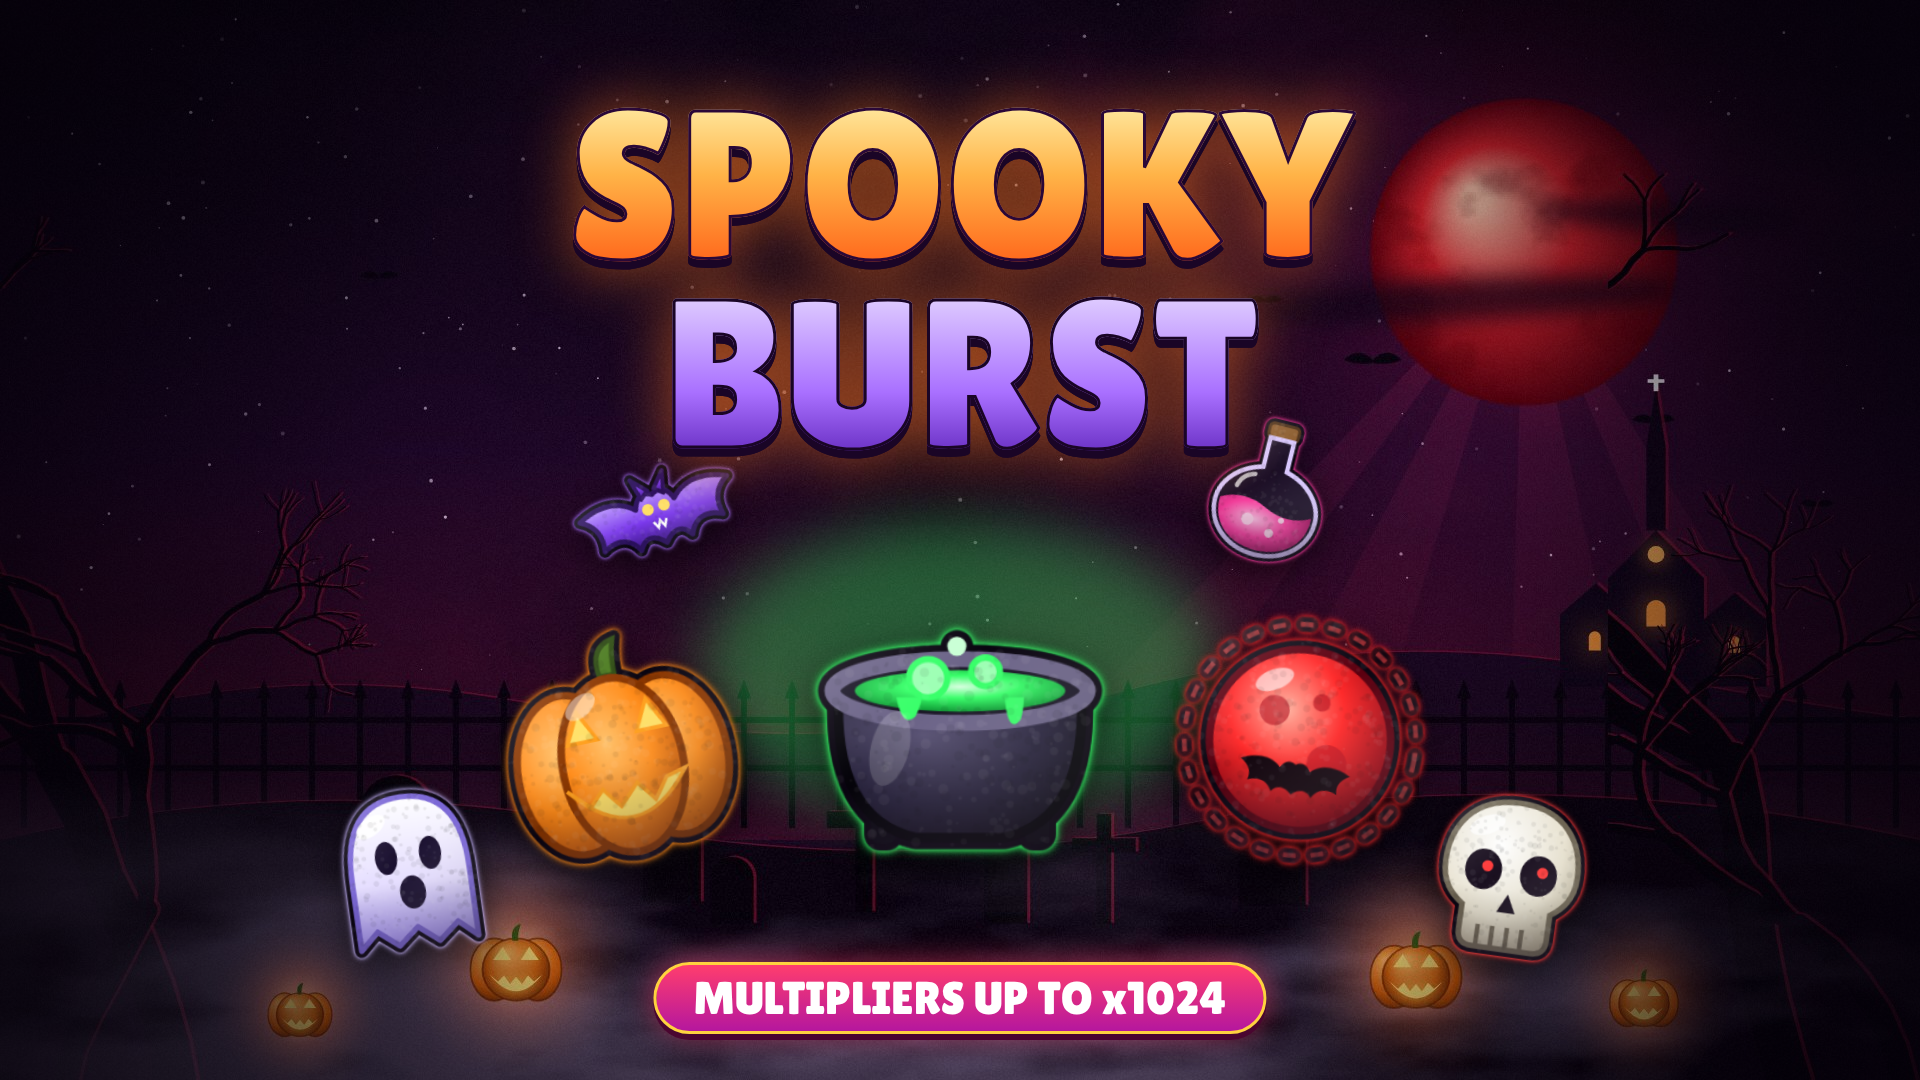
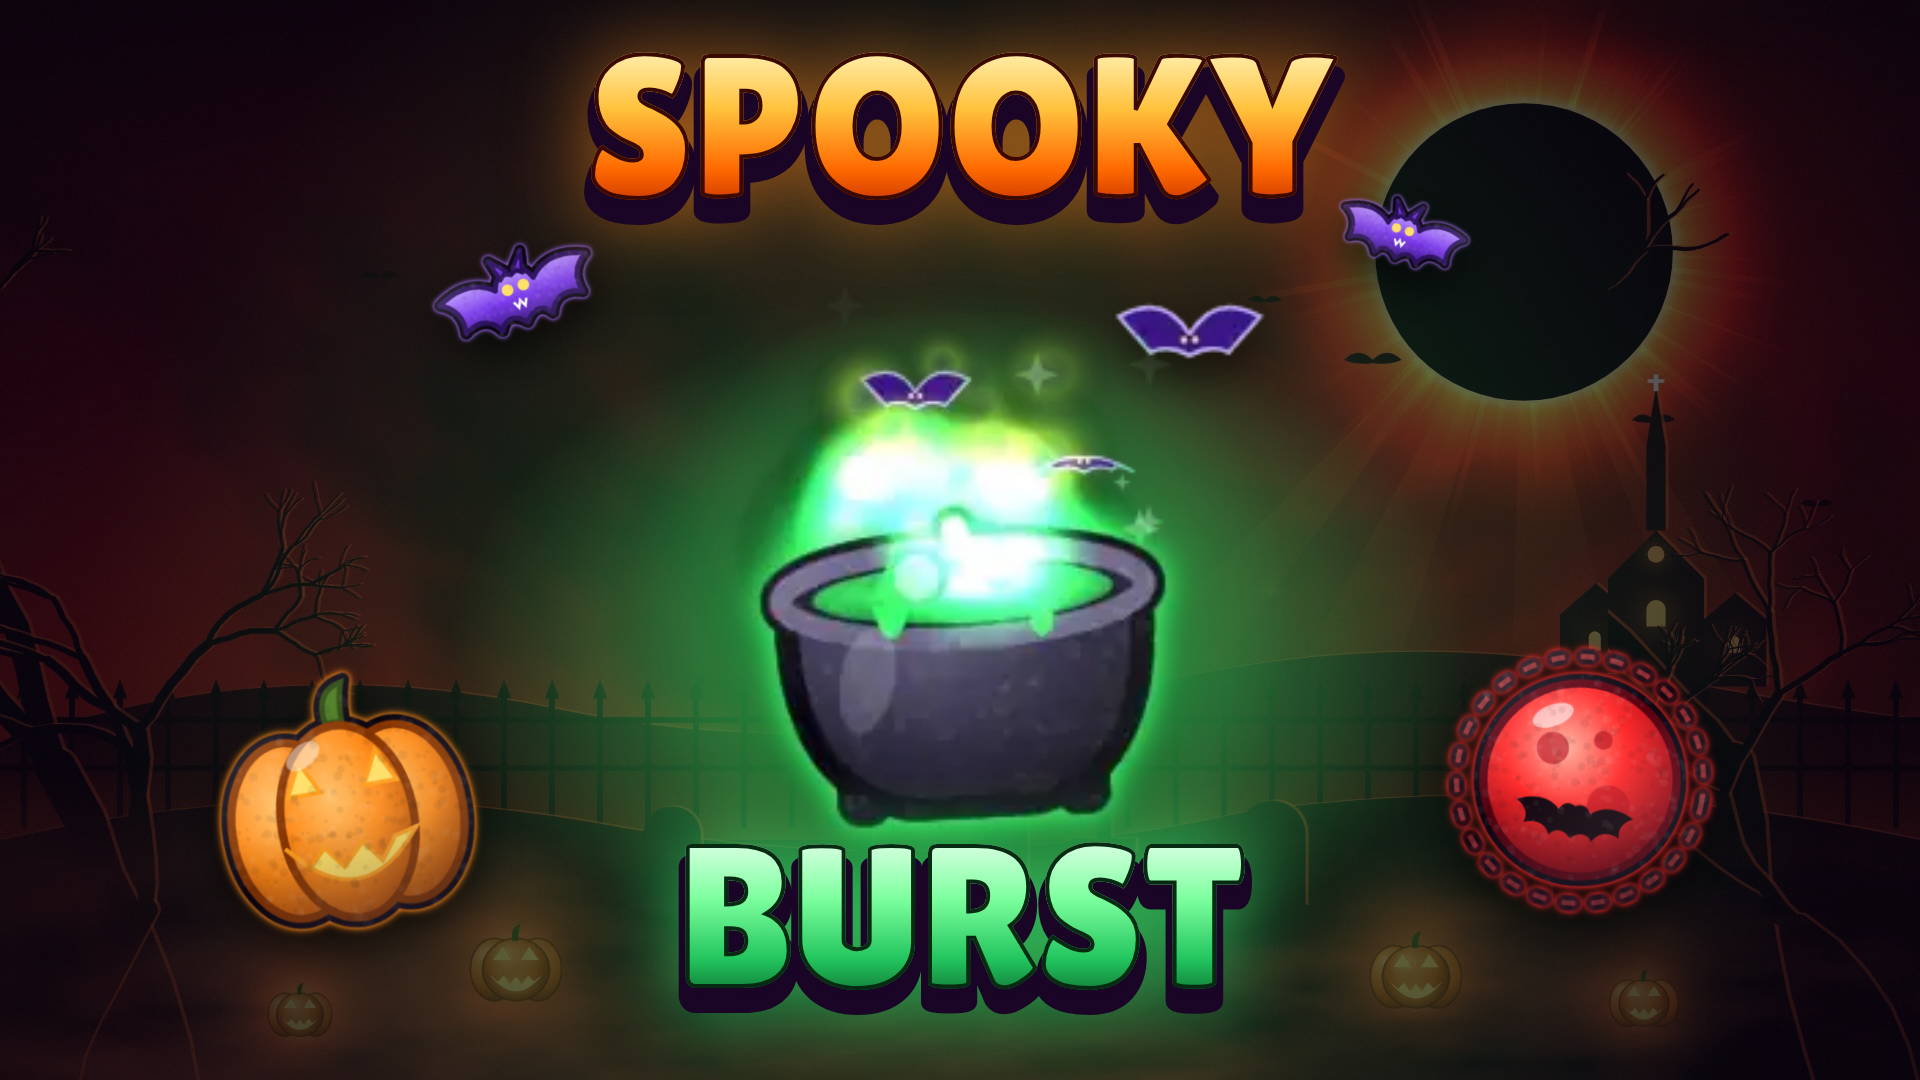
Nouvelle tuile 3:4 et couverture 16:9 (style chaudron en vedette)
Claude-Session: https://claude.ai/code/session_01QyEhzQ91qfuZrXMxoagda7

diff --git a/games/color-burst/tools/covers.html b/games/color-burst/tools/covers.html
@@ -1,0 +1,85 @@
+<!doctype html><meta charset="utf-8">
+<link rel="stylesheet" href="https://fonts.googleapis.com/css2?family=Lilita+One&family=Creepster&display=swap">
+<style>
+html,body{margin:0;background:#000}
+.art{position:relative;overflow:hidden}
+.c169{width:1920px;height:1080px}.c34{width:1200px;height:1600px}
+img.s{position:absolute;filter:drop-shadow(0 18px 24px rgba(0,0,0,.7))}
+.abs{position:absolute;inset:0}
+/* logo 3D épais */
+.logo3d{position:absolute;left:0;right:0;text-align:center;font-family:"Lilita One",sans-serif;line-height:.86;z-index:5}
+.logo3d .w{display:block;position:relative}
+.logo3d .w::before{content:attr(data-t);position:absolute;left:0;right:0;color:#1a0526;transform:translateY(.09em);-webkit-text-stroke:.09em #1a0526;z-index:-1}
+.logo3d .a{background:linear-gradient(180deg,#fff7c2 0%,#ffc23d 40%,#ff6a00 75%,#c22d00 100%);-webkit-background-clip:text;background-clip:text;color:transparent;-webkit-text-stroke:.02em #3a0a00}
+.logo3d .b{background:linear-gradient(180deg,#f4ecff 0%,#b98cff 45%,#7c3aed 75%,#3b1585 100%);-webkit-background-clip:text;background-clip:text;color:transparent;-webkit-text-stroke:.02em #14062a}
+.logo3d .g{background:linear-gradient(180deg,#eaffef 0%,#7dff9e 40%,#22c55e 75%,#0f6b30 100%);-webkit-background-clip:text;background-clip:text;color:transparent;-webkit-text-stroke:.02em #062a12}
+.glowtxt{filter:drop-shadow(0 0 40px rgba(255,140,30,.55))}
+.badge{position:absolute;font-family:"Lilita One",sans-serif;color:#14092a;border-radius:999px;padding:.05em .45em;box-shadow:0 .08em 0 rgba(0,0,0,.45),0 0 30px currentColor;z-index:4}
+.rays{background:repeating-conic-gradient(from 0deg at 50% 55%,rgba(255,255,255,.10) 0 6deg,rgba(255,255,255,0) 6deg 18deg)}
+</style>
+<!-- ===== A : chaudron héros ===== -->
+<div id="A169" class="art c169" style="background:radial-gradient(circle at 50% 62%,#1e5a2a 0%,#0c2214 35%,#05030c 75%)">
+  <div class="abs" style="background:url(theme/halloween/background-fs.jpg) center/cover;opacity:.35;mix-blend-mode:screen"></div>
+  <div class="abs" style="background:radial-gradient(ellipse 38% 45% at 50% 60%,rgba(80,255,120,.55),rgba(0,0,0,0) 70%)"></div>
+  <img class="s" src="theme/halloween/win/0.webp" style="left:610px;top:270px;width:700px">
+  <img class="s" src="theme/halloween/symbols/4.png" style="left:420px;top:200px;width:200px;transform:rotate(-20deg)">
+  <img class="s" src="theme/halloween/symbols/4.png" style="left:1320px;top:160px;width:160px;transform:rotate(16deg) scaleX(-1)">
+  <img class="s" src="theme/halloween/symbols/1.png" style="left:180px;top:640px;width:330px;transform:rotate(-10deg)">
+  <img class="s" src="theme/halloween/symbols/7.png" style="left:1420px;top:620px;width:320px;transform:rotate(10deg)">
+  <div class="logo3d glowtxt" style="top:40px;font-size:200px"><span class="w a" data-t="SPOOKY">SPOOKY</span></div>
+  <div class="logo3d" style="top:830px;font-size:200px;filter:drop-shadow(0 0 40px rgba(60,255,120,.6))"><span class="w g" data-t="BURST">BURST</span></div>
+</div>
+<div id="A34" class="art c34" style="background:radial-gradient(circle at 50% 55%,#1e5a2a 0%,#0c2214 35%,#05030c 75%)">
+  <div class="abs" style="background:url(theme/halloween/background-fs.jpg) 70% center/cover;opacity:.35;mix-blend-mode:screen"></div>
+  <div class="abs" style="background:radial-gradient(ellipse 50% 35% at 50% 55%,rgba(80,255,120,.55),rgba(0,0,0,0) 70%)"></div>
+  <img class="s" src="theme/halloween/win/0.webp" style="left:200px;top:470px;width:800px">
+  <img class="s" src="theme/halloween/symbols/4.png" style="left:60px;top:420px;width:220px;transform:rotate(-20deg)">
+  <img class="s" src="theme/halloween/symbols/4.png" style="left:900px;top:380px;width:190px;transform:rotate(16deg) scaleX(-1)">
+  <img class="s" src="theme/halloween/symbols/1.png" style="left:40px;top:1080px;width:330px;transform:rotate(-10deg)">
+  <img class="s" src="theme/halloween/symbols/7.png" style="left:840px;top:1060px;width:320px;transform:rotate(10deg)">
+  <div class="logo3d glowtxt" style="top:70px;font-size:250px"><span class="w a" data-t="SPOOKY">SPOOKY</span></div>
+  <div class="logo3d" style="top:1310px;font-size:250px;filter:drop-shadow(0 0 40px rgba(60,255,120,.6))"><span class="w g" data-t="BURST">BURST</span></div>
+</div>
+<!-- ===== B : lune de sang, épuré et premium ===== -->
+<div id="B169" class="art c169" style="background:url(theme/halloween/background.jpg) center/cover">
+  <div class="abs" style="background:linear-gradient(90deg,rgba(5,1,10,.92) 0%,rgba(5,1,10,.55) 45%,rgba(5,1,10,0) 70%)"></div>
+  <div class="logo3d glowtxt" style="left:110px;right:auto;text-align:left;top:300px;font-size:230px"><span class="w a" data-t="SPOOKY">SPOOKY</span><span class="w b" data-t="BURST">BURST</span></div>
+  <img class="s" src="theme/halloween/symbols/0.png" style="left:1220px;top:520px;width:420px">
+  <div class="badge" style="left:122px;top:800px;font-size:56px;background:linear-gradient(180deg,#fff3c4,#ffc83d);color:#3a1d00">MULTIPLIERS UP TO x1024</div>
+</div>
+<div id="B34" class="art c34" style="background:url(theme/halloween/background.jpg) 78% center/cover">
+  <div class="abs" style="background:linear-gradient(180deg,rgba(5,1,10,.9) 0%,rgba(5,1,10,.4) 40%,rgba(5,1,10,0) 60%,rgba(5,1,10,.85) 100%)"></div>
+  <div class="logo3d glowtxt" style="top:110px;font-size:260px"><span class="w a" data-t="SPOOKY">SPOOKY</span><span class="w b" data-t="BURST">BURST</span></div>
+  <img class="s" src="theme/halloween/symbols/0.png" style="left:330px;top:800px;width:540px">
+  <div class="badge" style="left:50%;transform:translateX(-50%);top:1400px;font-size:64px;background:linear-gradient(180deg,#fff3c4,#ffc83d);color:#3a1d00;white-space:nowrap">UP TO x1024</div>
+</div>
+<!-- ===== C : explosion "hype" avec multiplicateurs ===== -->
+<div id="C169" class="art c169" style="background:radial-gradient(circle at 50% 55%,#ff7a1a 0%,#b5179e 30%,#3b0d6e 60%,#0d0420 100%)">
+  <div class="abs rays"></div>
+  <img class="s" src="theme/halloween/symbols/0.png" style="left:760px;top:430px;width:400px">
+  <img class="s" src="theme/halloween/symbols/1.png" style="left:470px;top:560px;width:290px;transform:rotate(-16deg)">
+  <img class="s" src="theme/halloween/symbols/7.png" style="left:1160px;top:540px;width:290px;transform:rotate(14deg)">
+  <img class="s" src="theme/halloween/symbols/3.png" style="left:260px;top:330px;width:210px;transform:rotate(-24deg)">
+  <img class="s" src="theme/halloween/symbols/2.png" style="left:1450px;top:330px;width:210px;transform:rotate(22deg)">
+  <img class="s" src="theme/halloween/symbols/5.png" style="left:300px;top:800px;width:190px;transform:rotate(18deg)">
+  <img class="s" src="theme/halloween/symbols/6.png" style="left:1440px;top:800px;width:190px;transform:rotate(-14deg)">
+  <div class="badge" style="left:620px;top:420px;font-size:60px;background:#2ecc71">x8</div>
+  <div class="badge" style="left:1180px;top:440px;font-size:70px;background:#ff4d4d">x64</div>
+  <div class="badge" style="left:560px;top:900px;font-size:64px;background:#c77dff">x256</div>
+  <div class="badge" style="left:1130px;top:910px;font-size:84px;background:linear-gradient(135deg,#fff3c4,#ffc83d,#e08a00);color:#3a1d00">x1024</div>
+  <div class="logo3d glowtxt" style="top:40px;font-size:220px"><span class="w a" data-t="SPOOKY BURST">SPOOKY BURST</span></div>
+</div>
+<div id="C34" class="art c34" style="background:radial-gradient(circle at 50% 58%,#ff7a1a 0%,#b5179e 30%,#3b0d6e 60%,#0d0420 100%)">
+  <div class="abs rays" style="background:repeating-conic-gradient(from 0deg at 50% 58%,rgba(255,255,255,.10) 0 6deg,rgba(255,255,255,0) 6deg 18deg)"></div>
+  <img class="s" src="theme/halloween/symbols/0.png" style="left:370px;top:760px;width:460px">
+  <img class="s" src="theme/halloween/symbols/1.png" style="left:60px;top:880px;width:320px;transform:rotate(-16deg)">
+  <img class="s" src="theme/halloween/symbols/7.png" style="left:820px;top:860px;width:320px;transform:rotate(14deg)">
+  <img class="s" src="theme/halloween/symbols/3.png" style="left:110px;top:620px;width:220px;transform:rotate(-20deg)">
+  <img class="s" src="theme/halloween/symbols/2.png" style="left:880px;top:620px;width:220px;transform:rotate(20deg)">
+  <img class="s" src="theme/halloween/symbols/5.png" style="left:180px;top:1250px;width:210px;transform:rotate(18deg)">
+  <img class="s" src="theme/halloween/symbols/6.png" style="left:800px;top:1250px;width:210px;transform:rotate(-14deg)">
+  <div class="badge" style="left:300px;top:740px;font-size:64px;background:#2ecc71">x8</div>
+  <div class="badge" style="left:800px;top:760px;font-size:74px;background:#ff4d4d">x64</div>
+  <div class="badge" style="left:420px;top:1260px;font-size:96px;background:linear-gradient(135deg,#fff3c4,#ffc83d,#e08a00);color:#3a1d00">x1024</div>
+  <div class="logo3d glowtxt" style="top:110px;font-size:260px"><span class="w a" data-t="SPOOKY">SPOOKY</span><span class="w b" data-t="BURST">BURST</span></div>
+</div>
